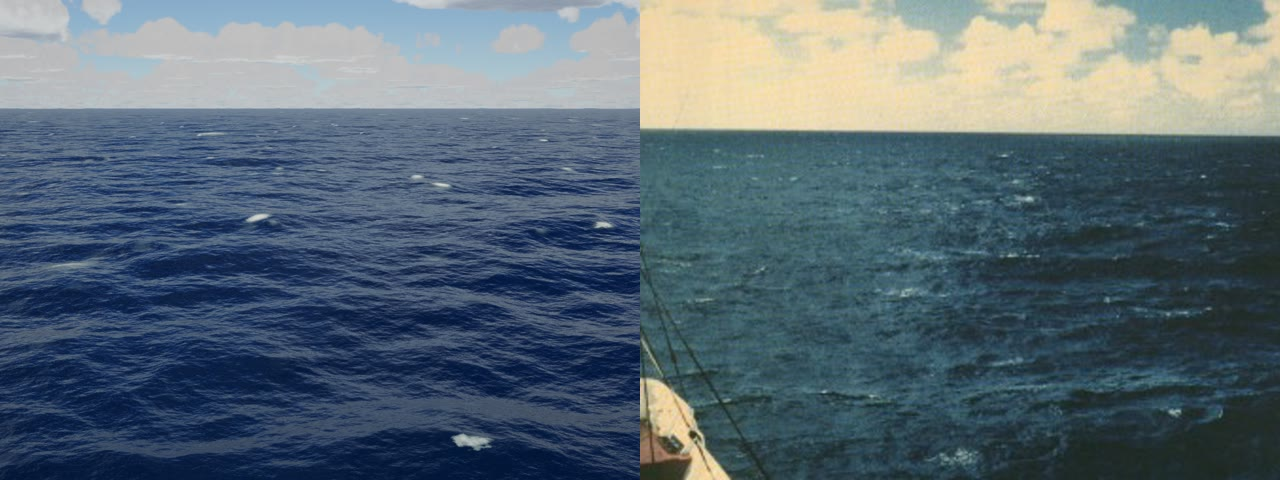
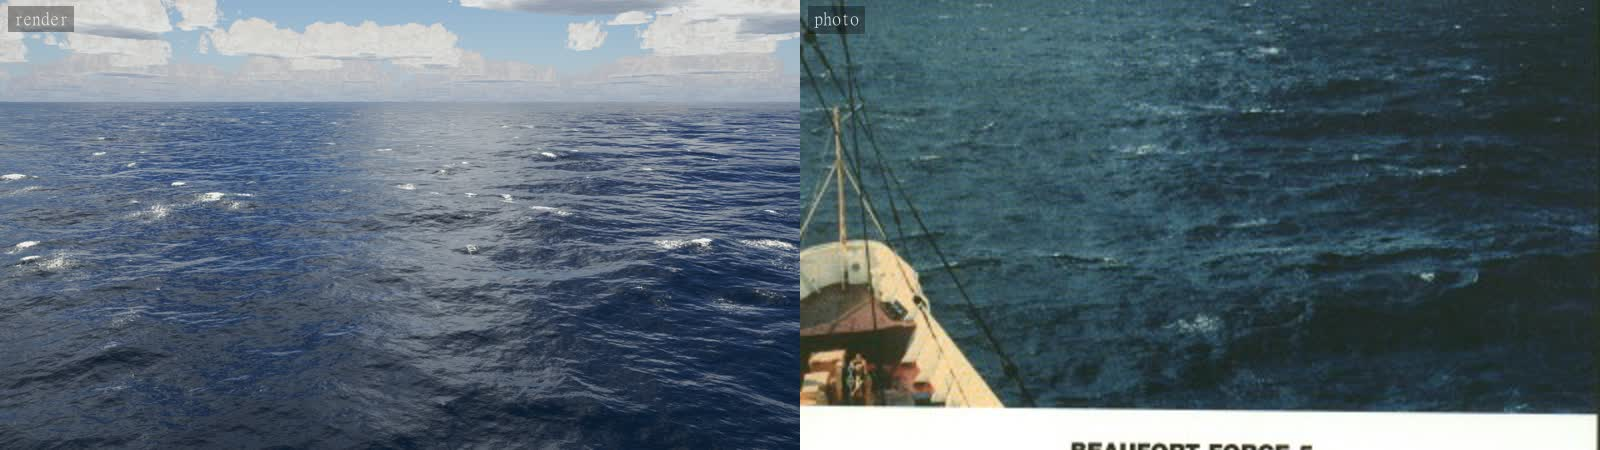
Film 1.1: the one-minute film rendered from this round, new stills and Beaufort comparisons

diff --git a/README.md b/README.md
@@ -131,8 +131,7 @@ photography. The measurable parts are checked with tools:
 
 Side by side with NOAA's Beaufort-scale photographs. The render is on the left, seen from a ship's
 deck 14 m up. The photos are from the NOAA Photo Library (public domain) and carry their film
-stock's colour cast. At force 9 the real sea is darker, with denser foam lace than the render
-produces so far.
+stock's colour cast. At force 9 the photo's sea is darker and its foam lace finer than the render's.
 
 | Force 5 (8.5 m/s) | Force 7 (15 m/s) | Force 9 (21 m/s) |
 | --- | --- | --- |
